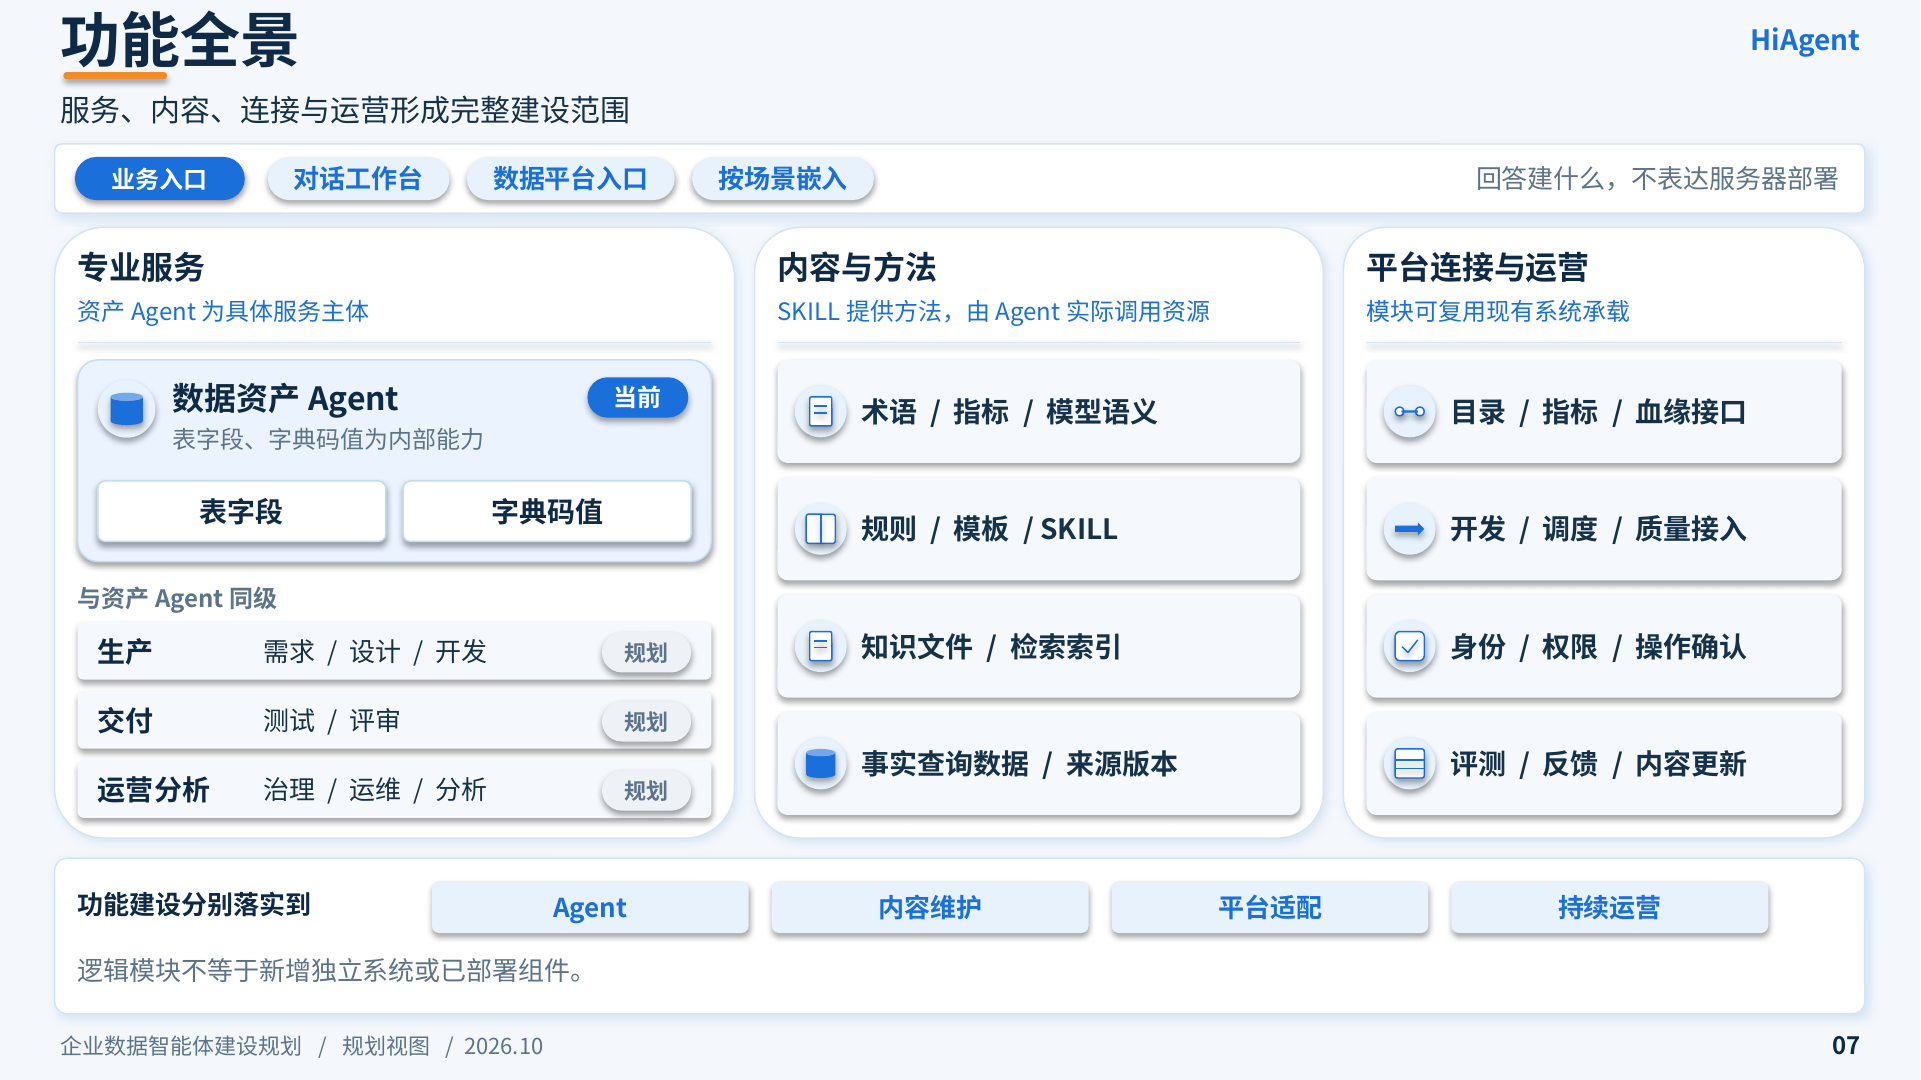
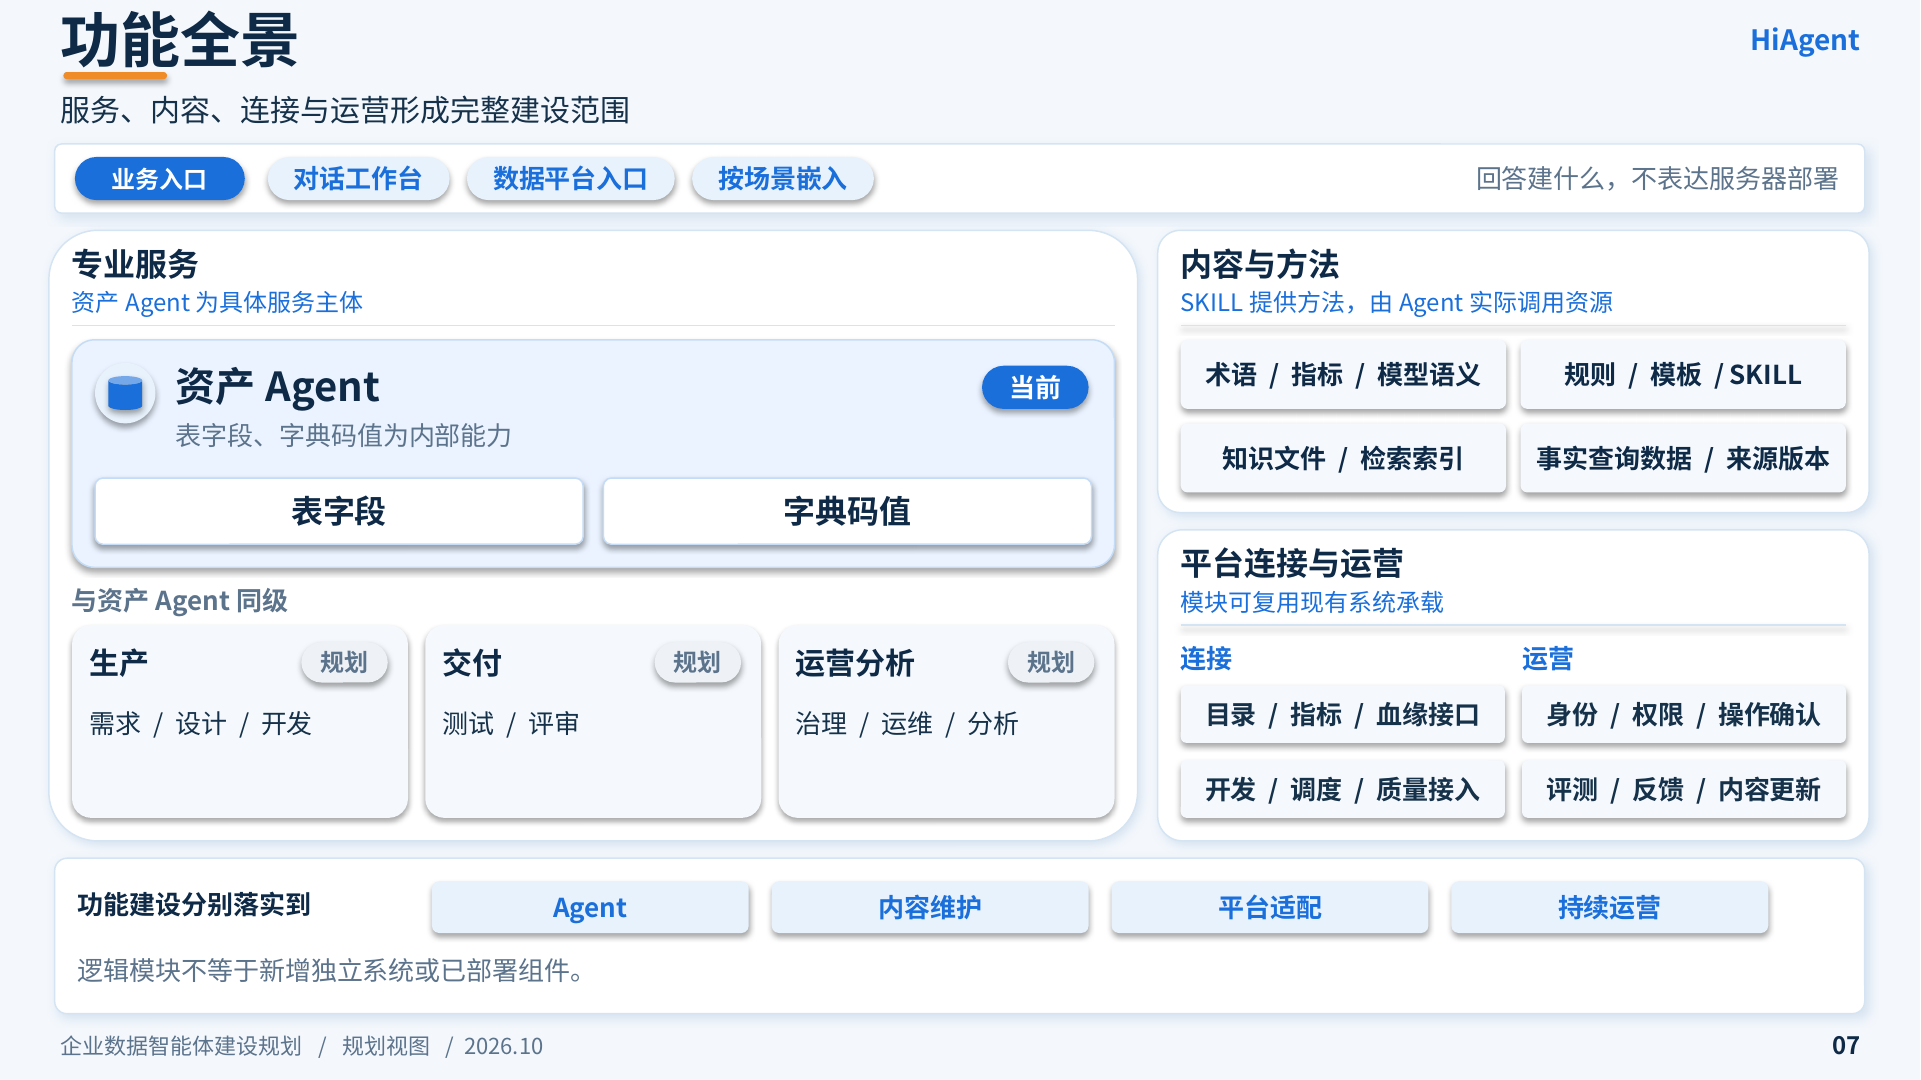
docs: 按归属重排第07页技能样稿
主体卡片包住内部能力，同级服务横向并排。内容与连接改用不同结构，原第07页不改。

Changed region(s): [[0.0312, 0.2139, 0.9682, 0.7944]]

diff --git a/docs/planning/hiagent-leadership-report/v7-illustrated/第七页样稿/build_page07_sample.py b/docs/planning/hiagent-leadership-report/v7-illustrated/第七页样稿/build_page07_sample.py
@@ -186,66 +186,83 @@ def add_panel(slide, x, y, w, h):
     add_shape(slide, x, y, w, h, WHITE, BORDER, radius=0.08, shadow=True)
 
 
-def add_column_title(slide, x, y, w, title, judgment) -> float:
-    """列标题和取自备注的判断句。返回内容区起点。"""
-    add_text(slide, x + 0.16, y + 0.10, w - 0.32, 0.34, title, 16, TITLE, True)
-    add_text(slide, x + 0.16, y + 0.44, w - 0.32, 0.28, judgment, 12, BLUE, False)
-    add_line(slide, x + 0.16, y + 0.80, x + w - 0.16, y + 0.80)
-    return y + 0.92
+def add_compact_title(slide, x, y, w, title, judgment) -> float:
+    """短列头，给下方卡片留出高度。"""
+    add_text(slide, x + 0.16, y + 0.08, w - 0.32, 0.30, title, 16, TITLE, True)
+    add_text(slide, x + 0.16, y + 0.38, w - 0.32, 0.24, judgment, 12, BLUE)
+    add_line(slide, x + 0.16, y + 0.66, x + w - 0.16, y + 0.66)
+    return y + 0.76
 
 
-def add_inventory_card(slide, x, y, w, h, title, kind) -> None:
-    """支撑组里的单行原文卡片。"""
-    add_shape(slide, x, y, w, h, CHIP, radius=0.1)
-    add_icon(slide, x + 0.12, y + (h - 0.36) / 2, 0.36, kind)
-    add_text(slide, x + 0.58, y, w - 0.70, h, title, 14, INK, True)
-
-
-def add_service_column(slide, x, y, w, h) -> None:
-    """专业服务按包含关系画：资产 Agent 在内，其余同级并排。"""
+def add_service_panel(slide, x, y, w, h) -> None:
+    """归属是主结构：主体卡片最大，同级服务横向并排。"""
     add_panel(slide, x, y, w, h)
-    cursor = add_column_title(slide, x, y, w, "专业服务", "资产Agent为具体服务主体")
-    # 主体卡片要包住内部能力，同时给下方同级行留出底边距。
-    hero_h = 1.40
+    cursor = add_compact_title(slide, x, y, w, "专业服务", "资产Agent为具体服务主体")
+    hero_h = 1.58
     add_shape(slide, x + 0.16, cursor, w - 0.32, hero_h, HERO, HERO_LINE, radius=0.1)
-    add_icon(slide, x + 0.30, cursor + 0.14, 0.40, "can")
-    add_text(slide, x + 0.82, cursor + 0.10, 2.15, 0.32, "数据资产Agent", 16, TITLE, True)
-    add_pill(slide, x + w - 1.02, cursor + 0.12, 0.70, 0.28, "当前", BLUE, WHITE, 12)
-    add_text(slide, x + 0.82, cursor + 0.42, 3.50, 0.26, "表字段、字典码值为内部能力", 12, MUTED)
-    chip_y = cursor + 0.84
-    chip_w = (w - 0.32 - 0.28 - 0.12) / 2
-    add_shape(slide, x + 0.30, chip_y, chip_w, 0.42, WHITE, HERO_LINE, radius=0.12)
-    add_shape(slide, x + 0.30 + chip_w + 0.12, chip_y, chip_w, 0.42, WHITE, HERO_LINE, radius=0.12)
-    add_text(slide, x + 0.30, chip_y, chip_w, 0.42, "表字段", 14, TITLE, True, "center")
-    add_text(slide, x + 0.30 + chip_w + 0.12, chip_y, chip_w, 0.42, "字典码值", 14, TITLE, True, "center")
+    add_icon(slide, x + 0.32, cursor + 0.16, 0.42, "can")
+    add_text(slide, x + 0.88, cursor + 0.14, 3.40, 0.36, "资产Agent", 20, TITLE, True)
+    add_pill(slide, x + w - 1.08, cursor + 0.18, 0.74, 0.30, "当前", BLUE, WHITE, 13)
+    add_text(slide, x + 0.88, cursor + 0.52, 5.40, 0.28, "表字段、字典码值为内部能力", 13, MUTED)
+    chip_y = cursor + 0.96
+    chip_w = (w - 0.64 - 0.14) / 2
+    add_shape(slide, x + 0.32, chip_y, chip_w, 0.46, WHITE, HERO_LINE, radius=0.12)
+    add_shape(slide, x + 0.32 + chip_w + 0.14, chip_y, chip_w, 0.46, WHITE, HERO_LINE, radius=0.12)
+    add_text(slide, x + 0.32, chip_y, chip_w, 0.46, "表字段", 16, TITLE, True, "center")
+    add_text(slide, x + 0.32 + chip_w + 0.14, chip_y, chip_w, 0.46, "字典码值", 16, TITLE, True, "center")
 
-    label_y = cursor + hero_h + 0.12
-    add_text(slide, x + 0.16, label_y, w - 0.32, 0.26, "与资产Agent同级", 12, MUTED, True)
-    rows = [
+    label_y = cursor + hero_h + 0.10
+    add_text(slide, x + 0.16, label_y, w - 0.32, 0.26, "与资产Agent同级", 13, MUTED, True)
+    peers = [
         ("生产", "需求 / 设计 / 开发"),
         ("交付", "测试 / 评审"),
         ("运营分析", "治理 / 运维 / 分析"),
     ]
-    row_y = label_y + 0.30
-    row_h = 0.40
-    for name, detail in rows:
-        add_shape(slide, x + 0.16, row_y, w - 0.32, row_h, CHIP, radius=0.1)
-        add_text(slide, x + 0.30, row_y, 1.15, row_h, name, 14, TITLE, True)
-        add_text(slide, x + 1.45, row_y, 2.15, row_h, detail, 13, INK)
-        add_pill(slide, x + w - 0.92, row_y + 0.07, 0.62, 0.28, "规划", PLAN, MUTED, 11)
-        row_y += row_h + 0.08
+    card_y = label_y + 0.30
+    card_h = y + h - 0.16 - card_y
+    card_w = (w - 0.32 - 0.24) / 3
+    for index, (name, detail) in enumerate(peers):
+        card_x = x + 0.16 + index * (card_w + 0.12)
+        add_shape(slide, card_x, card_y, card_w, card_h, CHIP, radius=0.1)
+        add_text(slide, card_x + 0.12, card_y + 0.10, card_w - 0.86, 0.32, name, 15, TITLE, True)
+        add_pill(slide, card_x + card_w - 0.74, card_y + 0.12, 0.60, 0.28, "规划", PLAN, MUTED, 12)
+        add_text(slide, card_x + 0.12, card_y + 0.48, card_w - 0.24, 0.40, detail, 13, INK)
 
 
-def add_stack_column(slide, x, y, w, h, title, judgment, items) -> None:
-    """内容或连接列：判断在列头，原文各占一张卡片。"""
+def add_content_grid(slide, x, y, w, h) -> None:
+    """内容用四宫格，避免再排成和服务列一样的长条。"""
     add_panel(slide, x, y, w, h)
-    cursor = add_column_title(slide, x, y, w, title, judgment)
+    cursor = add_compact_title(slide, x, y, w, "内容与方法", "SKILL提供方法，由Agent实际调用资源")
+    items = ["术语 / 指标 / 模型语义", "规则 / 模板 / SKILL", "知识文件 / 检索索引", "事实查询数据 / 来源版本"]
     gap = 0.10
-    count = len(items)
-    card_h = (y + h - 0.16 - cursor - gap * (count - 1)) / count
-    for name, kind in items:
-        add_inventory_card(slide, x + 0.16, cursor, w - 0.32, card_h, name, kind)
-        cursor += card_h + gap
+    tile_w = (w - 0.32 - gap) / 2
+    tile_h = (y + h - 0.14 - cursor - gap) / 2
+    for index, name in enumerate(items):
+        tile_x = x + 0.16 + (index % 2) * (tile_w + gap)
+        tile_y = cursor + (index // 2) * (tile_h + gap)
+        add_shape(slide, tile_x, tile_y, tile_w, tile_h, CHIP, radius=0.1)
+        add_text(slide, tile_x + 0.08, tile_y, tile_w - 0.16, tile_h, name, 13, TITLE, True, "center")
+
+
+def add_platform_panel(slide, x, y, w, h) -> None:
+    """连接、运营左右分列，每条独占一行，避免两行叠字。"""
+    add_panel(slide, x, y, w, h)
+    cursor = add_compact_title(slide, x, y, w, "平台连接与运营", "模块可复用现有系统承载")
+    groups = [
+        ("连接", ["目录 / 指标 / 血缘接口", "开发 / 调度 / 质量接入"]),
+        ("运营", ["身份 / 权限 / 操作确认", "评测 / 反馈 / 内容更新"]),
+    ]
+    col_gap = 0.12
+    col_w = (w - 0.32 - col_gap) / 2
+    body_h = y + h - 0.14 - cursor
+    line_h = (body_h - 0.34) / 2
+    for index, (label, lines) in enumerate(groups):
+        col_x = x + 0.16 + index * (col_w + col_gap)
+        add_text(slide, col_x, cursor, col_w, 0.26, label, 13, BLUE, True)
+        for line_index, line in enumerate(lines):
+            line_y = cursor + 0.32 + line_index * (line_h + 0.06)
+            add_shape(slide, col_x, line_y, col_w, line_h - 0.06, CHIP, radius=0.1)
+            add_text(slide, col_x + 0.08, line_y, col_w - 0.16, line_h - 0.06, line, 13, INK, True, "center")
 
 
 def add_entry(slide) -> None:
@@ -310,38 +327,10 @@ def build() -> Presentation:
 
     add_header(slide)
     add_entry(slide)
-    column_y, column_h = 1.58, 4.24
-    add_service_column(slide, 0.38, column_y, 4.72, column_h)
-    add_stack_column(
-        slide,
-        5.24,
-        column_y,
-        3.95,
-        column_h,
-        "内容与方法",
-        "SKILL提供方法，由Agent实际调用资源",
-        [
-            ("术语 / 指标 / 模型语义", "doc"),
-            ("规则 / 模板 / SKILL", "book"),
-            ("知识文件 / 检索索引", "doc"),
-            ("事实查询数据 / 来源版本", "can"),
-        ],
-    )
-    add_stack_column(
-        slide,
-        9.33,
-        column_y,
-        3.62,
-        column_h,
-        "平台连接与运营",
-        "模块可复用现有系统承载",
-        [
-            ("目录 / 指标 / 血缘接口", "link"),
-            ("开发 / 调度 / 质量接入", "flow"),
-            ("身份 / 权限 / 操作确认", "check"),
-            ("评测 / 反馈 / 内容更新", "table"),
-        ],
-    )
+    # 左侧归属区明显大于右侧两组，右侧内容与连接的内部结构也不相同。
+    add_service_panel(slide, 0.34, 1.60, 7.56, 4.24)
+    add_content_grid(slide, 8.04, 1.60, 4.94, 1.96)
+    add_platform_panel(slide, 8.04, 3.68, 4.94, 2.16)
     add_landing(slide)
     add_footer(slide)
     notes = (
@@ -369,7 +358,7 @@ def assert_source_text(presentation: Presentation) -> None:
         "数据平台入口",
         "按场景嵌入",
         "专业服务",
-        "数据资产Agent",
+        "资产Agent",
         "当前",
         "表字段",
         "字典码值",
